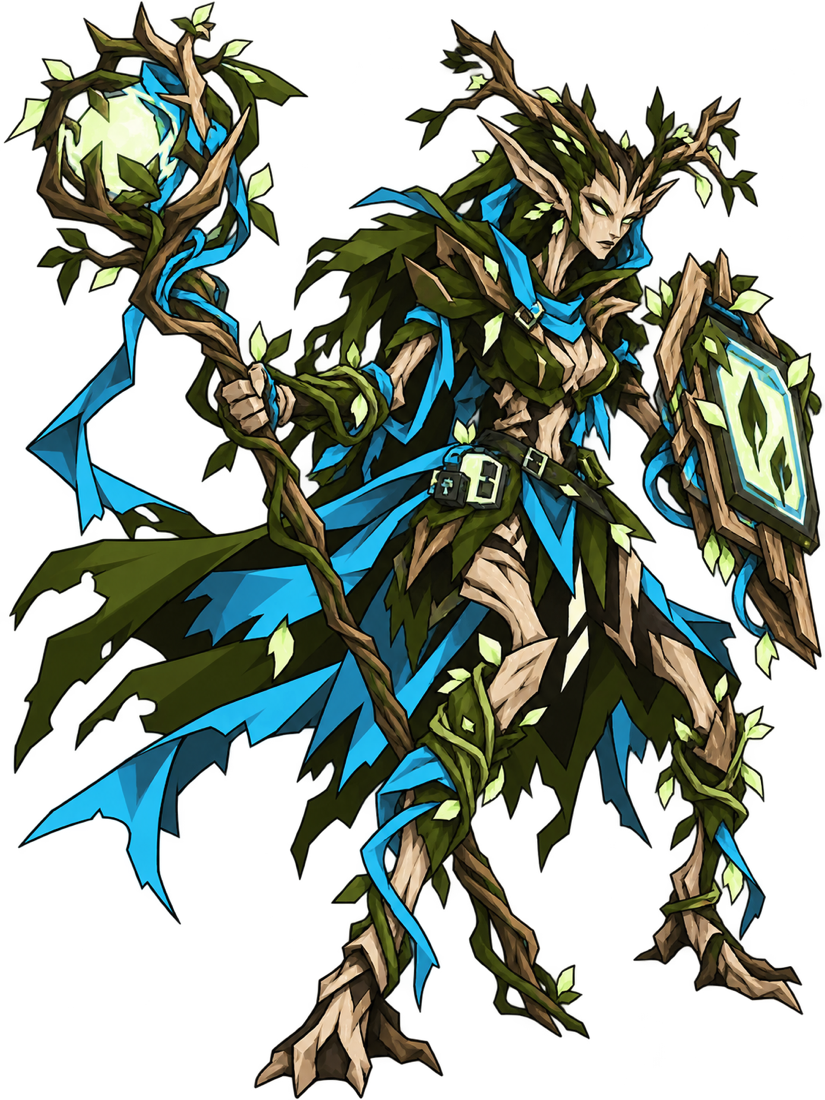
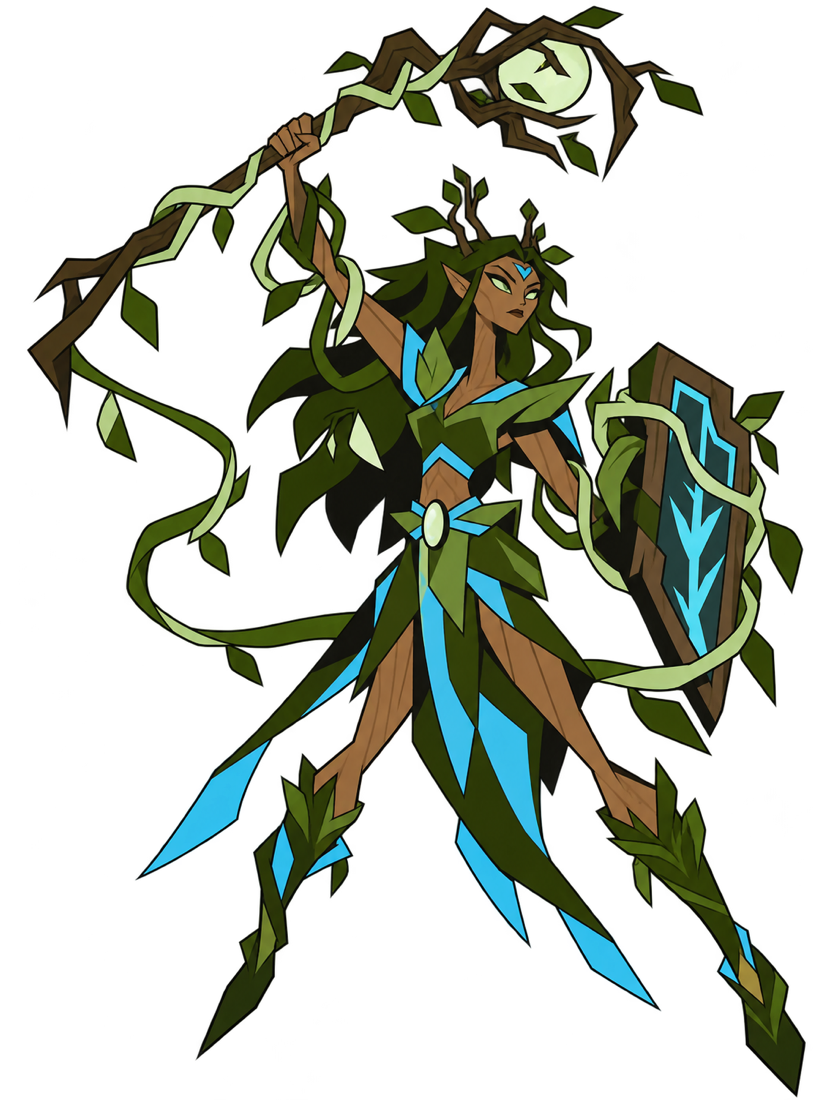
Rootlink Warlocks: replace art and background with the new versions

diff --git a/data-art.js b/data-art.js
@@ -97,7 +97,7 @@ window.ART_SPEC = {
   mowerknights: { w: "small winged fae knight in a green barred helm with a sprouting leaf crest and a pink scarf, leaf-and-hedge armor in green and pink, cream wings, a long vine-wrapped lance in one hand, a leaf-crest kite shield on the other arm, and a small wheeled lawn-cutter pushed along beside the knight in a charging stance", p: "an armored ride-on lawn mower with spinning blades and a banner, a manicured hedge wall, a picket fence, a garden gnome statue" },
   sprinklersprites: { w: "tiny cheerful winged sprite with pointed ears, a black ponytail and a yellow-and-teal pointed cap, clear wings, a teal rain-cape with a droplet brooch, a belt with a small watering bottle, a short teal-and-gold skirt, tall gold boots, a long teal garden-hose whip swirling around in one hand and a gold sprinkler-head staff spraying water in the other, ribbons of flat ice-blue water spiraling around her", p: "a garden with a rotating lawn sprinkler, a water tower, a rain barrel, a coiled hose, a rainbow in the spray" },
   hoamediators: { w: "stern older winged fae woman with a grey bun, a wide green sun hat with a pink bow, cream wings, a green-and-pink cape-jacket, a ring of pink violation tags at the belt, black thigh boots, a tiny gavel raised in one hand and a navy clipboard in the other", p: "a neighborhood meeting table with a mailbox row, a picket fence with a sign, a lawn with a flag, a clubhouse porch" },
-  rootlinkwarlocks: { w: "bark-skinned dryad in moss-plate armor with cable-vines wrapped on the arms, a root staff in one hand, a small monitor-shaped shield on the other arm", p: "a flooded data center with server racks overgrown with vines, a root-covered terminal, glowing cables, a skylight" },
+  rootlinkwarlocks: { w: "bark-skinned dryad woman with long vine-green hair, small antlers sprouting leaves and a blue gem on the brow, a leaf-and-vine bodice and layered leaf skirt with sky-blue trim, leaf greaves, a twisted branch staff topped with a glowing pale orb raised in one hand and a wooden rune shield wrapped in vines on the other arm, loose vines curling around her", p: "a flooded data center with server racks overgrown with vines, a root-covered terminal, glowing cables, a skylight" },
   mossplate: { w: "armored dryad in moss-covered rack-plate armor, a server-rack shield on one arm, a root hammer in the other hand, a vine whip at the belt", p: "a data-center gate with a mossy barricade of server racks, stacked cable spools, a forklift, ferns on a rack" },
   seedbank: { w: "bark-skinned dryad woman with long vine-green hair, small antlers sprouting leaves and a blue gem on the brow, a leaf-and-vine bodice and layered leaf skirt with sky-blue trim, leaf greaves, a twisted branch staff topped with a glowing pale orb raised in one hand and a wooden rune shield wrapped in vines on the other arm, loose vines curling around her", p: "a seed-vault greenhouse with glass panes, rows of seed drawers, planting benches, a misting system, a rain-barrel" },
   sumpsappers: { w: "stout bearded gnome in a crystal-crowned mining helmet with a head-lamp, a pickaxe in one hand, a belt of small mining charges", p: "a flooded basement tunnel with a sump pump, a mining cart, a support beam, a charge crate, a hole in the wall" },

diff --git a/data-cast.js b/data-cast.js
@@ -97,7 +97,7 @@ window.CAST = {
   mowerknights: C("Male", "Fae (adapted from English folk tradition)", "proud, chin up", "charging at a run with the hedge-lance leveled"),
   sprinklersprites: C("Female", "Fae (adapted from Japanese folk tradition)", "delighted, giggling", "spinning in a ring of water jets, the hose whip snapping"),
   hoamediators: C("Female", "Fae (adapted from American suburban folklore)", "stern, disapproving side-eye", "hovering in flight with the gavel raised high in one hand and the clipboard held out in the other"),
-  rootlinkwarlocks: C("Female", "Dryad (adapted from Greek tradition)", "cold, luminous stare", "staff raised overhead, shield forward"),
+  rootlinkwarlocks: C("Female", "Dryad (adapted from Greek tradition)", "cold, watchful, stern", "floating a step off the ground with the glowing staff raised overhead in one hand and the vine-wrapped rune shield held out in the other"),
   mossplate: C("Male", "Dryad (adapted from Celtic tradition)", "calm, mossy stoicism", "leaning into a rack-plate shield with the root hammer raised"),
   seedbank: C("Female", "Dryad (adapted from Slavic tradition)", "calm, watchful, stern", "floating a step off the ground with the glowing staff raised overhead in one hand and the vine-wrapped rune shield held out in the other"),
   sumpsappers: C("Male", "Gnome (adapted from German tradition)", "grumpy, gritted teeth", "creeping low with a charge in one hand and the pickaxe raised in the other"),

diff --git a/CAST.md b/CAST.md
@@ -6264,16 +6264,16 @@ COMPOSITION: horizon at one-third height, a moon upper-left, open empty space in
 | Physique | tall and bark-skinned; large size; mobility: grounded |
 | Ethnicity + nationality | Dryad (adapted from Greek tradition) |
 | Identity | female human |
-| Wardrobe | bark-skinned dryad in moss-plate armor with cable-vines wrapped on the arms, a root staff in one hand, a small monitor-shaped shield on the other arm |
+| Wardrobe | bark-skinned dryad woman with long vine-green hair, small antlers sprouting leaves and a blue gem on the brow, a leaf-and-vine bodice and layered leaf skirt with sky-blue trim, leaf greaves, a twisted branch staff topped with a glowing pale orb raised in one hand and a wooden rune shield wrapped in vines on the other arm, loose vines curling around her |
 | Accessories | Root staff; cable vines; monitor shield; moss-plate armor |
-| Pose | staff raised overhead, shield forward |
-| Facial expression | cold, luminous stare |
+| Pose | floating a step off the ground with the glowing staff raised overhead in one hand and the vine-wrapped rune shield held out in the other |
+| Facial expression | cold, watchful, stern |
 | People | Forest Spirit |
 | Class | Root-Server Dryads |
 | Subclass | Rootlink Warlocks |
 | Type | Caster |
 | Combat or support | Combat |
-| Silhouette hook | staff raised overhead, shield forward; the Root staff and the cable vines break the outline so it reads instantly as a black shape |
+| Silhouette hook | floating a step off the ground with the glowing staff raised overhead in one hand and the vine-wrapped rune shield held out in the other; the Root staff and the cable vines break the outline so it reads instantly as a black shape |
 | Shape language | flowing diamonds and a bright flat focus shape |
 | Main color (60%) | #2d4700: the largest garment, armor, fur-marking or body areas |
 | Secondary color (30%) | #4cc9f0: trim, sash, straps, secondary garment pieces and held gear |
@@ -6284,7 +6284,7 @@ COMPOSITION: horizon at one-third height, a moon upper-left, open empty space in
 
 **Samurai Jack check (targets for this character)**
 
-1. Black-fill test: the silhouette must still read as staff raised overhead, shield forward.
+1. Black-fill test: the silhouette must still read as floating a step off the ground with the glowing staff raised overhead in one hand and the vine-wrapped rune shield held out in the other.
 2. Few large shapes: flowing diamonds and a bright flat focus shape; no more than about a dozen major shapes (head, torso, limbs, main garment, signature gear).
 3. Thumbnail test: the Root staff and the pose must be visible at 64 px.
 4. Flat colors: #2d4700 / #4cc9f0 / #e4ffda as separate flat shapes divided by black line; no gradients or glow.
@@ -6304,8 +6304,8 @@ COMPOSITION: horizon at one-third height, a moon upper-left, open empty space in
 
 ```text
 A character model-sheet drawing for a 2D television cartoon in the exact visual style of Samurai Jack (Genndy Tartakovsky): extremely simple large flat shapes, one thin uniform black outline, flat colors, minimal detail, angular geometry, plus Sin City heavy solid black shapes and a few stark white highlights. It must look like a cel from the show, NOT detailed anime or fantasy concept art.
-CHARACTER: Rootlink Warlocks, female human (Dryad (adapted from Greek tradition)), apparent age early 20s. tall and bark-skinned, large size. Pose: staff raised overhead, shield forward. Expression: cold, luminous stare, as a minimal face. Design the silhouette first (flowing diamonds and a bright flat focus shape); the pose and the hero prop must read as a solid black shape.
-SIMPLIFICATION BUDGET (the most important rule): HERO PROP, the one detailed object: Root staff. SECOND ITEM, kept plain: cable vines. COSTUME: only three big masses (main garment, legs, boots) as large flat angular polygons. Source costume notes, to be CUT by about 70% and used only as a loose guide: bark-skinned dryad in moss-plate armor with cable-vines wrapped on the arms, a root staff in one hand, a small monitor-shaped shield on the other arm.
+CHARACTER: Rootlink Warlocks, female human (Dryad (adapted from Greek tradition)), apparent age early 20s. tall and bark-skinned, large size. Pose: floating a step off the ground with the glowing staff raised overhead in one hand and the vine-wrapped rune shield held out in the other. Expression: cold, watchful, stern, as a minimal face. Design the silhouette first (flowing diamonds and a bright flat focus shape); the pose and the hero prop must read as a solid black shape.
+SIMPLIFICATION BUDGET (the most important rule): HERO PROP, the one detailed object: Root staff. SECOND ITEM, kept plain: cable vines. COSTUME: only three big masses (main garment, legs, boots) as large flat angular polygons. Source costume notes, to be CUT by about 70% and used only as a loose guide: bark-skinned dryad woman with long vine-green hair, small antlers sprouting leaves and a blue gem on the brow, a leaf-and-vine bodice and layered leaf skirt with sky-blue trim, leaf greaves, a twisted branch staff topped with a glowing pale orb raised in one hand and a wooden rune shield wrapped in vines on the other arm, loose vines curling around her.
 HOW TO DRAW IT: FIGURE: about 12 to 15 big shapes in total; OUTLINE: one thin, uniform-weight black line, no sketchy or variable-weight lines; SHADING: each material is one flat color plus at most one flat darker shadow shape; no shine, no soft shading, no rim light; FACE: minimal; eyes are two simple geometric shapes (almond, slit or dot) under one brow line, nose one angular line, mouth one line; no eyelashes, eye highlights, iris detail or skin shading; HAIR and FUR: two to four big solid pointed shapes, never strands, braids, curls or texture; FABRIC: large flat planes with straight or sharply angled edges and at most three big creases; no ragged hems, ribbon streamers, patterns, embroidery, trim bands, tassels, stitching, studs or rows of buckles; METAL and GEAR: plain solid shapes in flat grey, black or an assigned color; chains are one thick plain line; no engraving or gold shading; HANDS and FEET: simple blocky shapes; at most ONE repeated graphic symbol on the whole figure; clear negative space between limbs, prop and body.
 COLOR (exact hex, flat fills): main #2d4700 about 60%, on the largest garment, armor, fur-marking or body areas; secondary #4cc9f0 about 30%, on trim, sash, straps, secondary garment pieces and held gear; pop #e4ffda about 10%, on the eyes, the Root staff and one small magical detail. Also allowed: black, white, neutral grey and one flat simplified skin, fur or species tone. No cream, tan, brass, gold or silver unless assigned. Never use #3f7d45 (background only).
 NEVER: photorealism, 3D or CGI, painterly or watercolor texture, detailed anime rendering, airbrushing, gradients, glow or bloom or lens flare (a glow is a flat solid shape), fabric texture, tiny decorations, individual hairs, realistic reflections, generic fantasy concept art.

diff --git a/PROMPTS.md b/PROMPTS.md
@@ -2406,8 +2406,8 @@ COMPOSITION: horizon at one-third height, a moon upper-left, open empty space in
 
 ```text
 A character model-sheet drawing for a 2D television cartoon in the exact visual style of Samurai Jack (Genndy Tartakovsky): extremely simple large flat shapes, one thin uniform black outline, flat colors, minimal detail, angular geometry, plus Sin City heavy solid black shapes and a few stark white highlights. It must look like a cel from the show, NOT detailed anime or fantasy concept art.
-CHARACTER: Rootlink Warlocks, female human (Dryad (adapted from Greek tradition)), apparent age early 20s. tall and bark-skinned, large size. Pose: staff raised overhead, shield forward. Expression: cold, luminous stare, as a minimal face. Design the silhouette first (flowing diamonds and a bright flat focus shape); the pose and the hero prop must read as a solid black shape.
-SIMPLIFICATION BUDGET (the most important rule): HERO PROP, the one detailed object: Root staff. SECOND ITEM, kept plain: cable vines. COSTUME: only three big masses (main garment, legs, boots) as large flat angular polygons. Source costume notes, to be CUT by about 70% and used only as a loose guide: bark-skinned dryad in moss-plate armor with cable-vines wrapped on the arms, a root staff in one hand, a small monitor-shaped shield on the other arm.
+CHARACTER: Rootlink Warlocks, female human (Dryad (adapted from Greek tradition)), apparent age early 20s. tall and bark-skinned, large size. Pose: floating a step off the ground with the glowing staff raised overhead in one hand and the vine-wrapped rune shield held out in the other. Expression: cold, watchful, stern, as a minimal face. Design the silhouette first (flowing diamonds and a bright flat focus shape); the pose and the hero prop must read as a solid black shape.
+SIMPLIFICATION BUDGET (the most important rule): HERO PROP, the one detailed object: Root staff. SECOND ITEM, kept plain: cable vines. COSTUME: only three big masses (main garment, legs, boots) as large flat angular polygons. Source costume notes, to be CUT by about 70% and used only as a loose guide: bark-skinned dryad woman with long vine-green hair, small antlers sprouting leaves and a blue gem on the brow, a leaf-and-vine bodice and layered leaf skirt with sky-blue trim, leaf greaves, a twisted branch staff topped with a glowing pale orb raised in one hand and a wooden rune shield wrapped in vines on the other arm, loose vines curling around her.
 HOW TO DRAW IT: FIGURE: about 12 to 15 big shapes in total; OUTLINE: one thin, uniform-weight black line, no sketchy or variable-weight lines; SHADING: each material is one flat color plus at most one flat darker shadow shape; no shine, no soft shading, no rim light; FACE: minimal; eyes are two simple geometric shapes (almond, slit or dot) under one brow line, nose one angular line, mouth one line; no eyelashes, eye highlights, iris detail or skin shading; HAIR and FUR: two to four big solid pointed shapes, never strands, braids, curls or texture; FABRIC: large flat planes with straight or sharply angled edges and at most three big creases; no ragged hems, ribbon streamers, patterns, embroidery, trim bands, tassels, stitching, studs or rows of buckles; METAL and GEAR: plain solid shapes in flat grey, black or an assigned color; chains are one thick plain line; no engraving or gold shading; HANDS and FEET: simple blocky shapes; at most ONE repeated graphic symbol on the whole figure; clear negative space between limbs, prop and body.
 COLOR (exact hex, flat fills): main #2d4700 about 60%, on the largest garment, armor, fur-marking or body areas; secondary #4cc9f0 about 30%, on trim, sash, straps, secondary garment pieces and held gear; pop #e4ffda about 10%, on the eyes, the Root staff and one small magical detail. Also allowed: black, white, neutral grey and one flat simplified skin, fur or species tone. No cream, tan, brass, gold or silver unless assigned. Never use #3f7d45 (background only).
 NEVER: photorealism, 3D or CGI, painterly or watercolor texture, detailed anime rendering, airbrushing, gradients, glow or bloom or lens flare (a glow is a flat solid shape), fabric texture, tiny decorations, individual hairs, realistic reflections, generic fantasy concept art.
